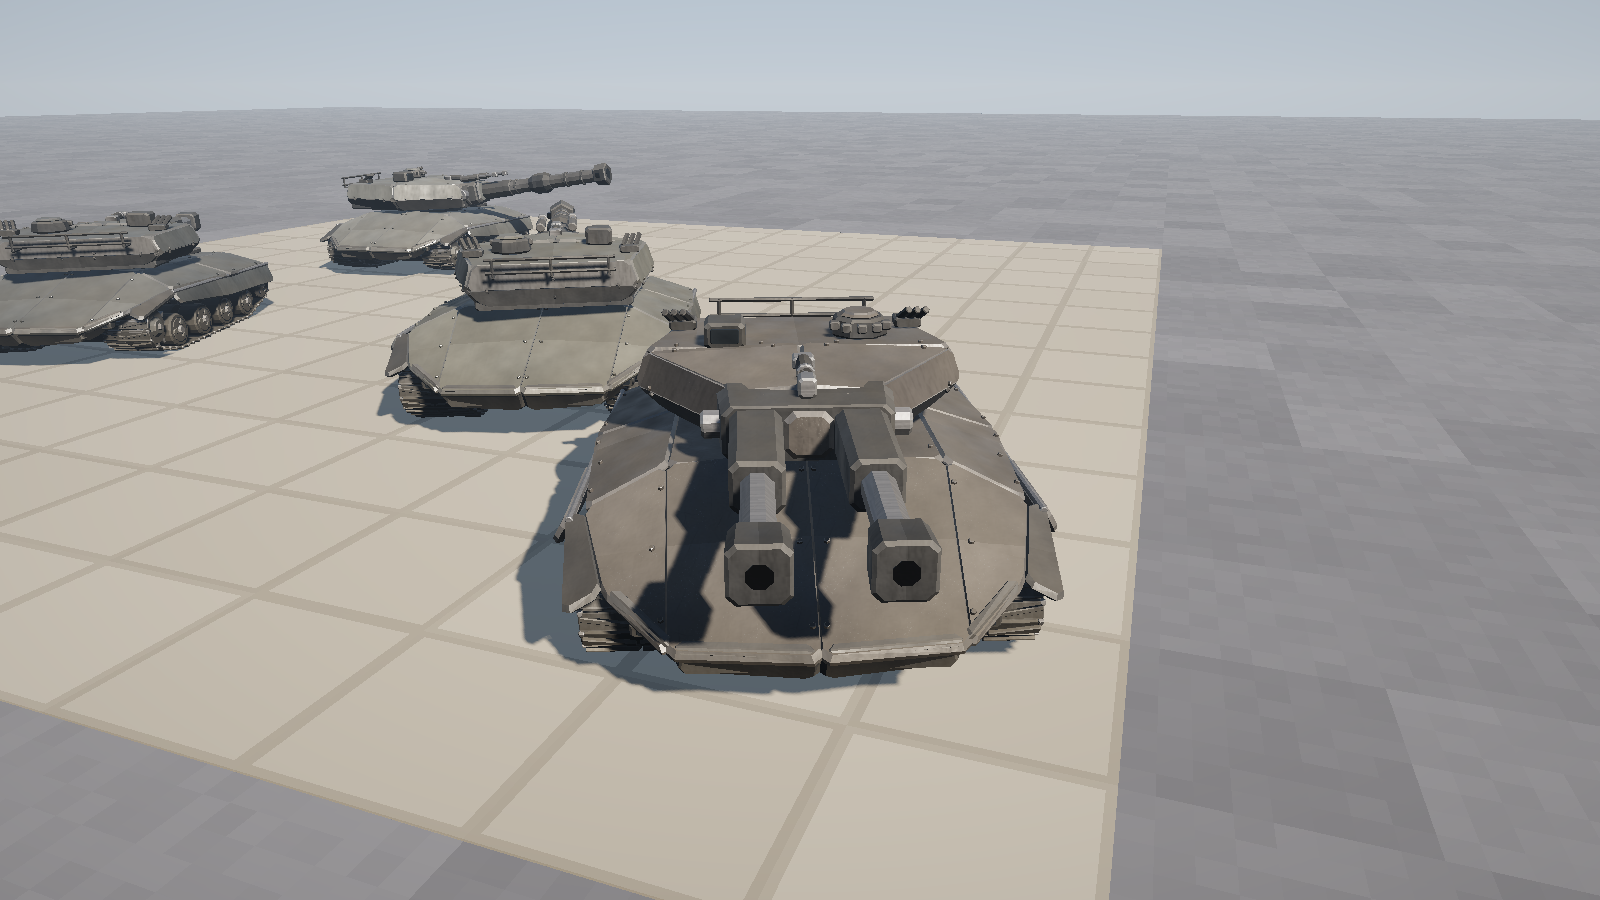
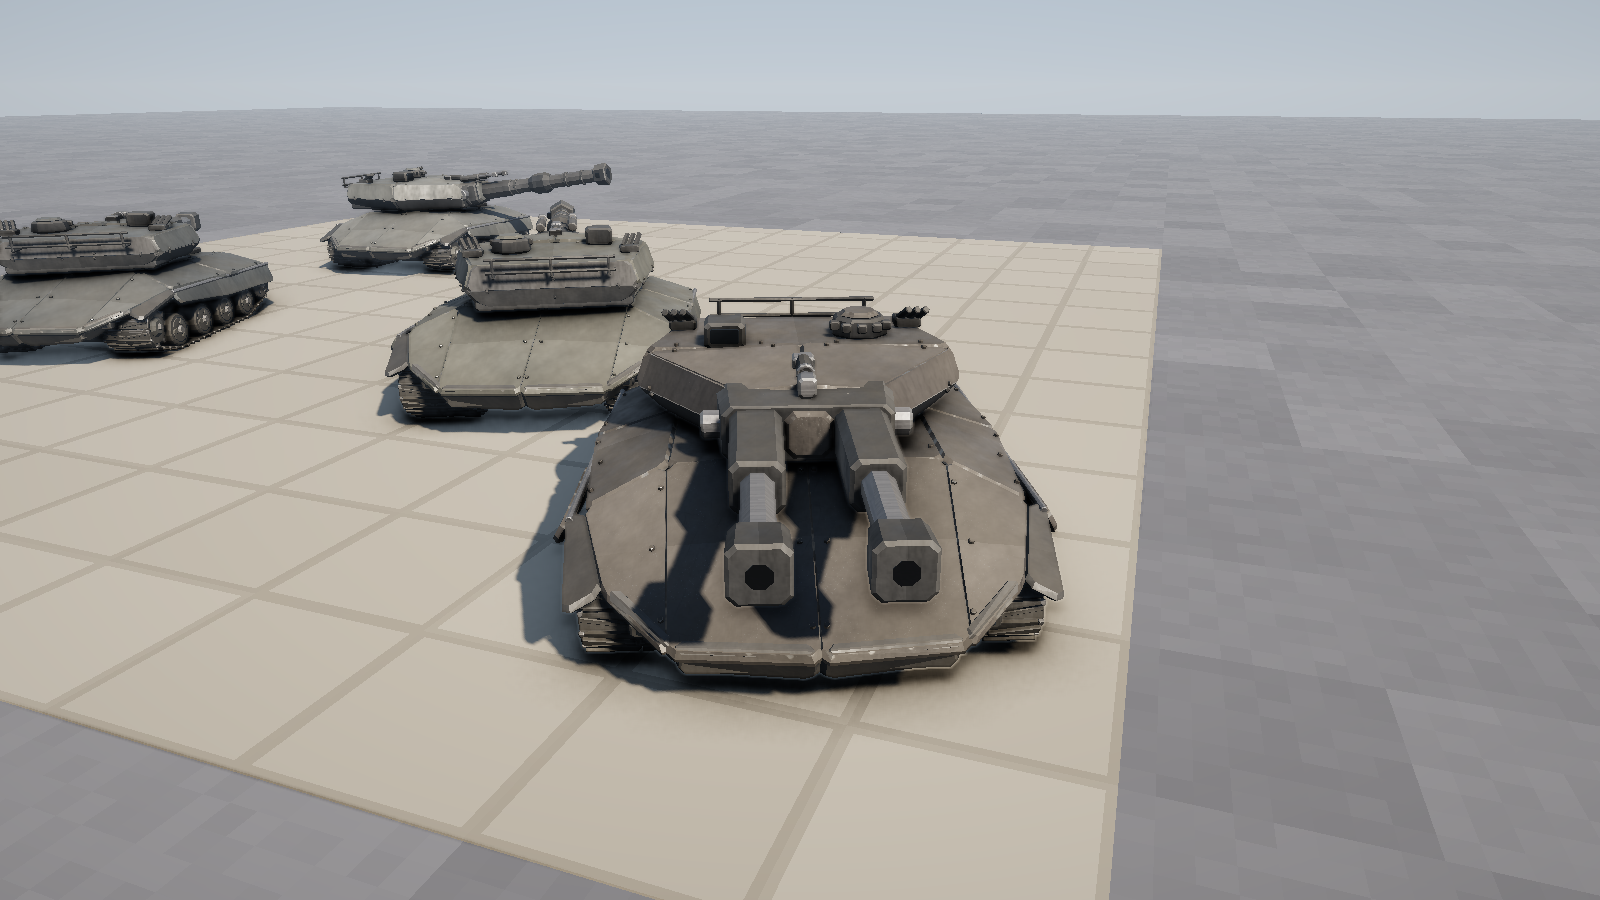
SSAO pass, finer detail on plate edges, AO baked with neighbors
Per-vertex AO can't darken the middle of big flat plates (no vertices
there), so contact shadows under the turret never showed. Adds a
screen-space AO pass between the scene and post: reconstructs world
position and normal from depth, 16 hemisphere samples with a rotated
kernel, range-checked, faded with distance, 5x5 blur in post. Depth is
now stored and sampled. Also: a second, finer triplanar octave so plate
edges and bevels carry texture; bevels chip through to steel in patches
instead of a uniform bright strip; per-vertex AO bakes stronger and
include neighboring parts as occluders.

Claude-Session: https://claude.ai/code/session_01MEmTqGbEpfyapBVdQzY2iS

diff --git a/src/render/mod.rs b/src/render/mod.rs
@@ -20,6 +20,7 @@ use mesh::{Instance, MeshData, MeshId, Vertex};
 const HDR_FORMAT: wgpu::TextureFormat = wgpu::TextureFormat::Rgba16Float;
 const DEPTH_FORMAT: wgpu::TextureFormat = wgpu::TextureFormat::Depth32Float;
 const SHADOW_SIZE: u32 = 4096;
+const AO_FORMAT: wgpu::TextureFormat = wgpu::TextureFormat::R8Unorm;
 
 #[derive(Clone, Copy, Debug)]
 pub struct Camera {
@@ -98,6 +99,9 @@ impl GpuMesh {
 struct Targets {
     hdr_view: wgpu::TextureView,
     depth_view: wgpu::TextureView,
+    ao_view: wgpu::TextureView,
+    /// Depth for the SSAO pass.
+    ao_bg: wgpu::BindGroup,
     post_bg: wgpu::BindGroup,
 }
 
@@ -122,6 +126,8 @@ pub struct Renderer {
     ui_globals_buf: wgpu::Buffer,
     ui_globals_bg: wgpu::BindGroup,
     post_bgl: wgpu::BindGroupLayout,
+    ao_bgl: wgpu::BindGroupLayout,
+    ao_pipe: wgpu::RenderPipeline,
     linear_sampler: wgpu::Sampler,
     targets: Targets,
 
@@ -267,7 +273,30 @@ impl Renderer {
                     ty: wgpu::BindingType::Sampler(wgpu::SamplerBindingType::Filtering),
                     count: None,
                 },
+                wgpu::BindGroupLayoutEntry {
+                    binding: 2,
+                    visibility: wgpu::ShaderStages::FRAGMENT,
+                    ty: wgpu::BindingType::Texture {
+                        sample_type: wgpu::TextureSampleType::Float { filterable: true },
+                        view_dimension: wgpu::TextureViewDimension::D2,
+                        multisampled: false,
+                    },
+                    count: None,
+                },
             ],
+        });
+        let ao_bgl = device.create_bind_group_layout(&wgpu::BindGroupLayoutDescriptor {
+            label: Some("ssao depth"),
+            entries: &[wgpu::BindGroupLayoutEntry {
+                binding: 0,
+                visibility: wgpu::ShaderStages::FRAGMENT,
+                ty: wgpu::BindingType::Texture {
+                    sample_type: wgpu::TextureSampleType::Depth,
+                    view_dimension: wgpu::TextureViewDimension::D2,
+                    multisampled: false,
+                },
+                count: None,
+            }],
         });
         let ui_bgl = device.create_bind_group_layout(&wgpu::BindGroupLayoutDescriptor {
             label: Some("ui"),
@@ -284,6 +313,7 @@ impl Renderer {
         let scene_layout = layout(&[Some(&globals_bgl), Some(&shadow_bgl)]);
         let globals_layout = layout(&[Some(&globals_bgl)]);
         let post_layout = layout(&[Some(&post_bgl)]);
+        let ao_layout = layout(&[Some(&globals_bgl), Some(&ao_bgl)]);
         let ui_layout = layout(&[Some(&ui_bgl)]);
 
         let vertex_layouts = [
@@ -369,6 +399,27 @@ impl Renderer {
                 entry_point: Some("fs_sky"),
                 compilation_options: Default::default(),
                 targets: &[Some(HDR_FORMAT.into())],
+            }),
+            multiview_mask: None,
+            cache: None,
+        });
+
+        let ao_src = device.create_shader_module(wgpu::ShaderModuleDescriptor {
+            label: Some("ssao.wgsl"),
+            source: wgpu::ShaderSource::Wgsl(include_str!("../shaders/ssao.wgsl").into()),
+        });
+        let ao_pipe = device.create_render_pipeline(&wgpu::RenderPipelineDescriptor {
+            label: Some("ssao"),
+            layout: Some(&ao_layout),
+            vertex: wgpu::VertexState { module: &ao_src, entry_point: Some("vs_ao"), compilation_options: Default::default(), buffers: &[] },
+            primitive: Default::default(),
+            depth_stencil: None,
+            multisample: Default::default(),
+            fragment: Some(wgpu::FragmentState {
+                module: &ao_src,
+                entry_point: Some("fs_ao"),
+                compilation_options: Default::default(),
+                targets: &[Some(AO_FORMAT.into())],
             }),
             multiview_mask: None,
             cache: None,
@@ -495,7 +546,7 @@ impl Renderer {
             ..Default::default()
         });
 
-        let targets = make_targets(&device, &post_bgl, &linear_sampler, width, height);
+        let targets = make_targets(&device, &post_bgl, &ao_bgl, &linear_sampler, width, height);
         let meshes = MeshData::primitives().iter().map(|m| GpuMesh::new(&device, m, "primitive")).collect();
         let instance_cap = 1024;
         let instance_buf = make_buffer(&device, "instances", instance_cap * std::mem::size_of::<Instance>(), wgpu::BufferUsages::VERTEX);
@@ -521,6 +572,8 @@ impl Renderer {
             ui_globals_buf,
             ui_globals_bg,
             post_bgl,
+            ao_bgl,
+            ao_pipe,
             linear_sampler,
             targets,
             meshes,
@@ -554,7 +607,7 @@ impl Renderer {
             config.height = height;
             surface.configure(&self.device, config);
         }
-        self.targets = make_targets(&self.device, &self.post_bgl, &self.linear_sampler, width, height);
+        self.targets = make_targets(&self.device, &self.post_bgl, &self.ao_bgl, &self.linear_sampler, width, height);
     }
 
     /// Render to the window surface.
@@ -729,7 +782,7 @@ impl Renderer {
                 })],
                 depth_stencil_attachment: Some(wgpu::RenderPassDepthStencilAttachment {
                     view: &self.targets.depth_view,
-                    depth_ops: Some(wgpu::Operations { load: wgpu::LoadOp::Clear(1.0), store: wgpu::StoreOp::Discard }),
+                    depth_ops: Some(wgpu::Operations { load: wgpu::LoadOp::Clear(1.0), store: wgpu::StoreOp::Store }),
                     stencil_ops: None,
                 }),
                 timestamp_writes: None,
@@ -742,6 +795,26 @@ impl Renderer {
             self.draw_geometry(&mut pass, &ranges);
             pass.set_pipeline(&self.sky_pipe);
             pass.set_bind_group(0, &self.globals_bg, &[]);
+            pass.draw(0..3, 0..1);
+        }
+
+        {
+            let mut pass = encoder.begin_render_pass(&wgpu::RenderPassDescriptor {
+                label: Some("ssao"),
+                color_attachments: &[Some(wgpu::RenderPassColorAttachment {
+                    view: &self.targets.ao_view,
+                    depth_slice: None,
+                    resolve_target: None,
+                    ops: wgpu::Operations { load: wgpu::LoadOp::Clear(wgpu::Color::WHITE), store: wgpu::StoreOp::Store },
+                })],
+                depth_stencil_attachment: None,
+                timestamp_writes: None,
+                occlusion_query_set: None,
+                multiview_mask: None,
+            });
+            pass.set_pipeline(&self.ao_pipe);
+            pass.set_bind_group(0, &self.globals_bg, &[]);
+            pass.set_bind_group(1, &self.targets.ao_bg, &[]);
             pass.draw(0..3, 0..1);
         }
 
@@ -818,6 +891,7 @@ fn upload_surface_textures(device: &wgpu::Device, queue: &wgpu::Queue) -> wgpu::
 fn make_targets(
     device: &wgpu::Device,
     post_bgl: &wgpu::BindGroupLayout,
+    ao_bgl: &wgpu::BindGroupLayout,
     sampler: &wgpu::Sampler,
     width: u32,
     height: u32,
@@ -835,17 +909,26 @@ fn make_targets(
         })
     };
     let hdr = tex("hdr", HDR_FORMAT, wgpu::TextureUsages::RENDER_ATTACHMENT | wgpu::TextureUsages::TEXTURE_BINDING);
-    let depth = tex("depth", DEPTH_FORMAT, wgpu::TextureUsages::RENDER_ATTACHMENT);
+    let depth = tex("depth", DEPTH_FORMAT, wgpu::TextureUsages::RENDER_ATTACHMENT | wgpu::TextureUsages::TEXTURE_BINDING);
+    let ao = tex("ssao", AO_FORMAT, wgpu::TextureUsages::RENDER_ATTACHMENT | wgpu::TextureUsages::TEXTURE_BINDING);
     let hdr_view = hdr.create_view(&Default::default());
+    let depth_view = depth.create_view(&Default::default());
+    let ao_view = ao.create_view(&Default::default());
+    let ao_bg = device.create_bind_group(&wgpu::BindGroupDescriptor {
+        label: Some("ssao depth"),
+        layout: ao_bgl,
+        entries: &[wgpu::BindGroupEntry { binding: 0, resource: wgpu::BindingResource::TextureView(&depth_view) }],
+    });
     let post_bg = device.create_bind_group(&wgpu::BindGroupDescriptor {
         label: Some("post"),
         layout: post_bgl,
         entries: &[
             wgpu::BindGroupEntry { binding: 0, resource: wgpu::BindingResource::TextureView(&hdr_view) },
             wgpu::BindGroupEntry { binding: 1, resource: wgpu::BindingResource::Sampler(sampler) },
+            wgpu::BindGroupEntry { binding: 2, resource: wgpu::BindingResource::TextureView(&ao_view) },
         ],
     });
-    Targets { hdr_view, depth_view: depth.create_view(&Default::default()), post_bg }
+    Targets { hdr_view, depth_view, ao_view, ao_bg, post_bg }
 }
 
 fn request_device(adapter: &wgpu::Adapter) -> Result<(wgpu::Device, wgpu::Queue)> {

diff --git a/src/render/mesh.rs b/src/render/mesh.rs
@@ -96,6 +96,18 @@ impl MeshData {
         self.indices.extend(other.indices.iter().map(|i| i + base));
     }
 
+    /// Append another mesh transformed by `m`, keeping its own colors and materials.
+    pub fn append_keep(&mut self, other: &MeshData, m: Mat4) {
+        let base = self.verts.len() as u32;
+        let nm = Mat3::from_mat4(m).inverse().transpose();
+        for v in &other.verts {
+            let p = m.transform_point3(Vec3::from(v.pos));
+            let n = (nm * Vec3::from(v.normal)).normalize_or_zero();
+            self.verts.push(Vertex { pos: p.to_array(), normal: n.to_array(), ..*v });
+        }
+        self.indices.extend(other.indices.iter().map(|i| i + base));
+    }
+
     /// Flat-shaded triangle whose normal faces away from `inside`.
     pub fn facet(&mut self, p: [Vec3; 3], inside: Vec3, c: Vec4) {
         let mut n = (p[1] - p[0]).cross(p[2] - p[0]);
@@ -115,13 +127,21 @@ impl MeshData {
     /// joints, creases, overhangs). Uses a spatial hash over triangle
     /// centroids, so it's fast enough to run at startup.
     pub fn bake_ao(&mut self, radius: f32, strength: f32, floor: f32) {
+        self.bake_ao_with(&MeshData::default(), radius, strength, floor);
+    }
+
+    /// Like `bake_ao`, but `others` also casts occlusion (neighboring parts
+    /// drawn as separate instances: the turret over the deck, the tracks under
+    /// the hull sides) without being modified.
+    pub fn bake_ao_with(&mut self, others: &MeshData, radius: f32, strength: f32, floor: f32) {
         use std::collections::HashMap;
         let cell = radius;
         let key = |p: Vec3| ((p.x / cell).floor() as i32, (p.y / cell).floor() as i32, (p.z / cell).floor() as i32);
         let mut tris: Vec<(Vec3, Vec3, f32)> = Vec::with_capacity(self.indices.len() / 3);
         let mut grid: HashMap<(i32, i32, i32), Vec<u32>> = HashMap::new();
-        for t in self.indices.chunks_exact(3) {
-            let [a, b, c] = [t[0], t[1], t[2]].map(|i| Vec3::from(self.verts[i as usize].pos));
+        let all = self.indices.chunks_exact(3).map(|t| (t, &self.verts)).chain(others.indices.chunks_exact(3).map(|t| (t, &others.verts)));
+        for (t, verts) in all {
+            let [a, b, c] = [t[0], t[1], t[2]].map(|i| Vec3::from(verts[i as usize].pos));
             let cr = (b - a).cross(c - a);
             let area = cr.length() * 0.5;
             if area < 1e-7 {

diff --git a/src/tank/mod.rs b/src/tank/mod.rs
@@ -39,17 +39,34 @@ impl KitMeshes {
             hulls: vec![hull(model::lancer()), hull(model::bastion())],
             turrets: vec![model::lance(), model::maul()],
         };
-        // Bake contact shadows into every part: joints, creases and overhangs go dark.
+        // Bake contact shadows into every part. Neighboring parts are separate
+        // instances, so each bake also sees them as occluders: the hull sees a
+        // turret on its ring and the tracks under its sides, the turret sees
+        // the hull roof under it.
+        let lance_head = kit.turrets[0].head.clone();
         for (h, parts) in &mut kit.hulls {
-            h.body.bake_ao(0.45, 0.6, 0.3);
+            let mut occ = MeshData::default();
+            occ.append_keep(&lance_head, glam::Mat4::from_translation(h.mount));
+            let r = &h.running;
+            for s in [-1.0f32, 1.0] {
+                let x = s * r.track_x;
+                let (z0, z1) = (r.idler.center.x.min(r.sprocket.center.x) - 0.4, r.idler.center.x.max(r.sprocket.center.x) + 0.4);
+                occ.add_box(glam::Vec3::new(x - r.track_width * 0.5, 0.0, z0), glam::Vec3::new(x + r.track_width * 0.5, 1.05, z1), glam::Vec4::ONE, glam::Vec4::ONE);
+            }
+            h.body.bake_ao_with(&occ, 0.8, 1.8, 0.15);
             for part in parts.iter_mut() {
-                part.bake_ao(0.12, 0.6, 0.45);
+                part.bake_ao(0.15, 1.4, 0.35);
             }
         }
+        // The hull roof under every turret.
+        let mut roof = MeshData::default();
+        roof.add_box(glam::Vec3::new(-2.0, -0.4, -2.5), glam::Vec3::new(2.0, 0.0, 2.5), glam::Vec4::ONE, glam::Vec4::ONE);
         for t in &mut kit.turrets {
-            t.head.bake_ao(0.4, 0.6, 0.3);
-            t.mantlet.bake_ao(0.2, 0.6, 0.4);
-            t.barrel.bake_ao(0.15, 0.6, 0.45);
+            t.head.bake_ao_with(&roof, 0.7, 1.8, 0.15);
+            let mut head_in_gun = MeshData::default();
+            head_in_gun.append_keep(&t.head, glam::Mat4::from_translation(-t.pivot));
+            t.mantlet.bake_ao_with(&head_in_gun, 0.3, 1.4, 0.3);
+            t.barrel.bake_ao(0.2, 1.4, 0.35);
         }
         kit
     }

diff --git a/README.md b/README.md
@@ -53,7 +53,13 @@ Rendering for vehicles: procedural surface textures are generated at startup
 blotching, roughness variation, grime streaks; tileable, mipmapped) and
 sampled triplanar in each part's object space, so they need no UVs and move
 with the part. Lighting on vehicles is physically based (GGX highlights,
-metal-tinted reflections, roughness-blurred sky reflection). The look follows `docs/design-direction.md`.
+metal-tinted reflections, roughness-blurred sky reflection). A finer second
+texture octave keeps narrow faces (plate edges, bevels) detailed; bevels chip
+through to bare steel in patches.
+
+Ambient occlusion: screen-space (`shaders/ssao.wgsl`, a pass between the
+scene and post) for contact between separate parts, the ground and the city,
+on top of the per-vertex bake for small parts. The look follows `docs/design-direction.md`.
 
 Machinery that moves with the tank:
 - tread links run around the wheels at each side's own speed
